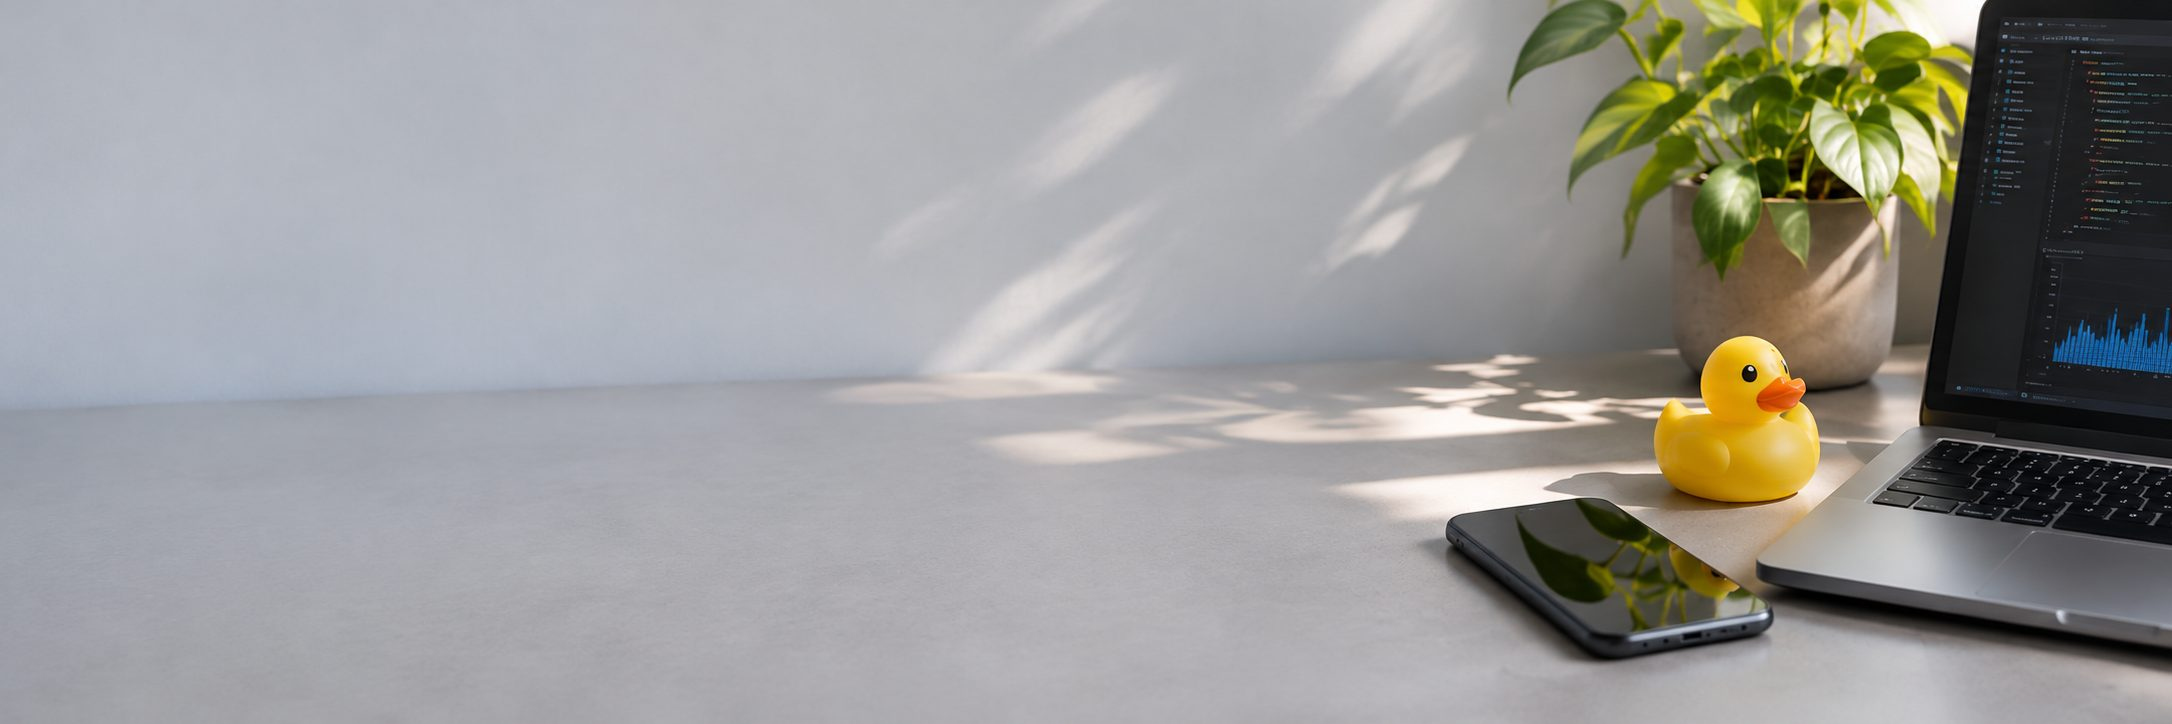
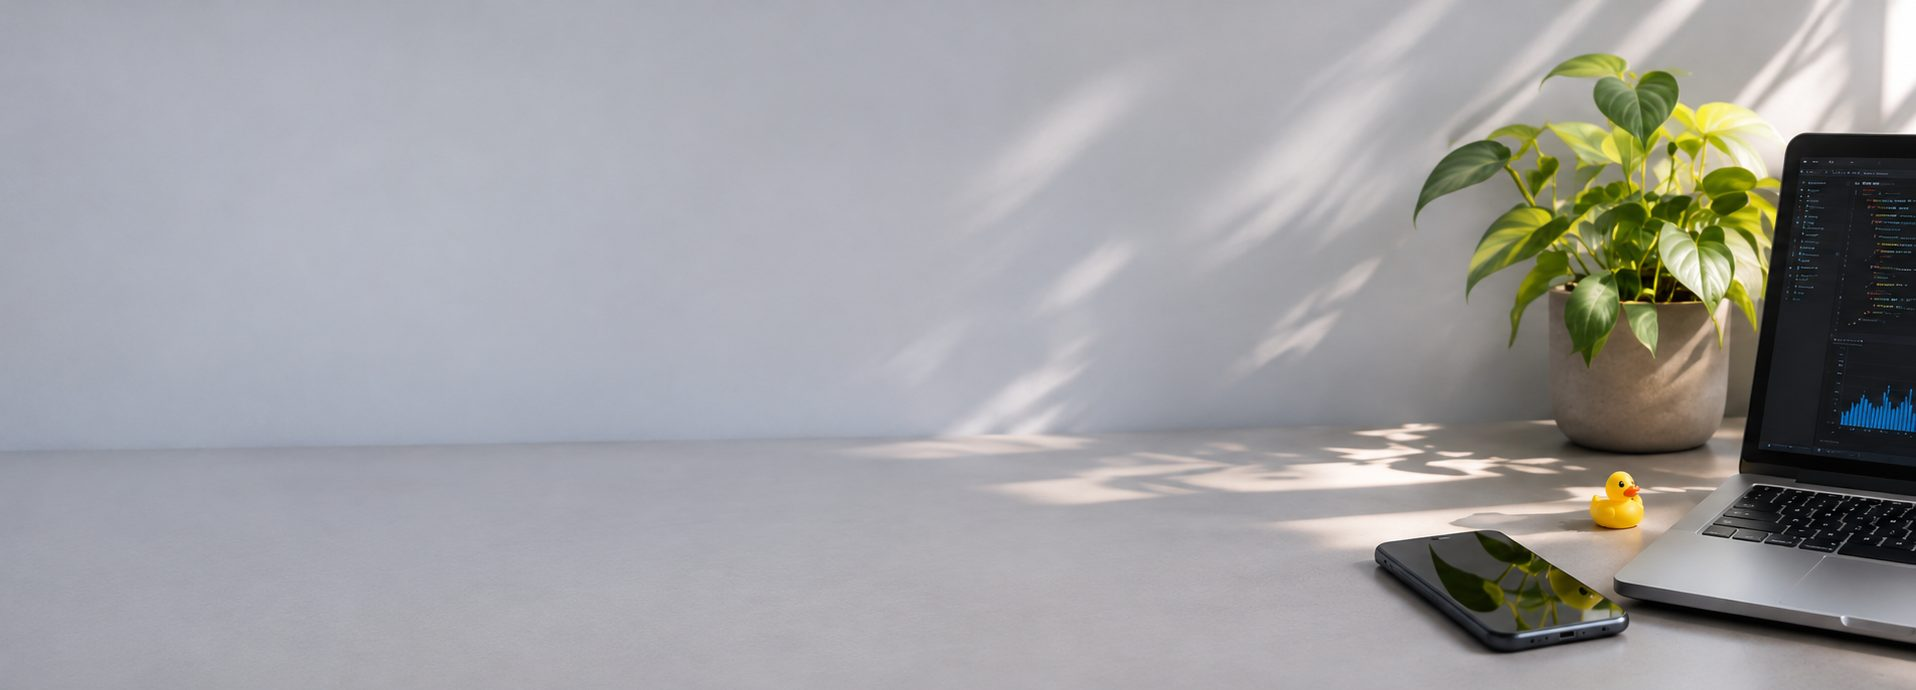
Seire sait: uus päisepilt, tumedas teemas nähtavus 55%
Claude-Session: https://claude.ai/code/session_019y96C7jSnRUVMso94MMyi9

Changed region(s): [[0.3695, 0.0, 1.0, 0.9739], [0.4619, 0.1217, 0.5851, 0.2435]]

diff --git a/tehisaru-seire/sait/stiil.css b/tehisaru-seire/sait/stiil.css
@@ -1330,17 +1330,10 @@ html[data-t] .pea-rahu.pilt::before {
 html[data-t] .pea-rahu.pilt h1 { max-width: 22ch; }
 html[data-t] .pea-rahu.pilt .alla { max-width: 56ch; }
 html[data-t] .pea-rahu.pilt + nav .sellel { margin-top: 24px; }
-/* Tume teema: B5 tumendatud pilt, mustvalge (Kadri 8.11.2026 23:50) */
-html[data-t][data-seire-teema="dark"] .pea-rahu.pilt::before {
-  background: linear-gradient(90deg, rgba(31,32,35,.82) 0%, rgba(31,32,35,.55) 45%, rgba(31,32,35,.25) 75%),
-              url("pilt/avaleht.jpg") right 62% / cover no-repeat;
-  filter: grayscale(1); opacity: 1;
-}
+/* Tume teema: sama pilt ja üleminek, mustvalge, nähtavus 55% nagu heledas (Kadri 9.11.2026 00:04) */
+html[data-t][data-seire-teema="dark"] .pea-rahu.pilt::before { filter: grayscale(1); opacity: .55; }
 @media (max-width: 680px) {
   html[data-t] .pea-rahu.pilt { min-height: 0; padding-top: 168px; padding-bottom: 8px; }
   html[data-t] .pea-rahu.pilt::before { bottom: auto; height: 150px;
     background: linear-gradient(0deg, var(--page) 0%, transparent 35%), url("pilt/avaleht.jpg") right top / auto 150px no-repeat; }
-}
-@media (max-width: 680px) {
-  html[data-t][data-seire-teema="dark"] .pea-rahu.pilt::before { background: url("pilt/avaleht.jpg") right top / auto 150px no-repeat; filter: grayscale(1) brightness(.6); }
 }

diff --git a/UUENDUSED.md b/UUENDUSED.md
@@ -4,6 +4,7 @@ Uuemad üleval. Varasem ajalugu (26.–30.10.2026) on algses projekti kaustas.
 
 | Aeg | Mis muutus |
 |---|---|
+| 9.11.2026 | Seire saidi päisepilt vahetati Kadri uue foto vastu (väiksem part, taim, sülearvuti). Tumedas teemas on pilt nüüd sama moodi kui heledas: mustvalge, nähtavus 55%, hajub lehe taustaks. |
 | 8.11.2026 | Seire saidi avalehe päisepilt vahetati Kadri uue töölaua foto vastu (taim, part, sülearvuti); kujundus sama (mustvalge, B7 hele 55%, B5 tume). |
 | 8.11.2026 | Seire saidi avalehe päisesse tuli mustvalge töölaua foto: heledas teemas B7 (läbipaistvus 55%, hajuv üleminek), tumedas B5 (tumendatud). Turvakontroll lubab Kadri loal ainult faili `tehisaru-seire/sait/pilt/avaleht.jpg`, test valvab, et teisi pilte ei lubata. |
 | 2026-11-08 | Seire sait sai A1 „Tehisaru 2027“ kujunduse (Kadri 23:41): valge Hele teema, kastideta jaotised, suur pealkiri, hallid numbrikaardid ja kerged tabelid kõigil lehtedel. Avalehe päis on lühike: pealkiri ütleb ELi kohad koos aastaga, üks lause ja link „Allikad ja kuupäevad“. Asendab 21:01 Helehalli teema. |
